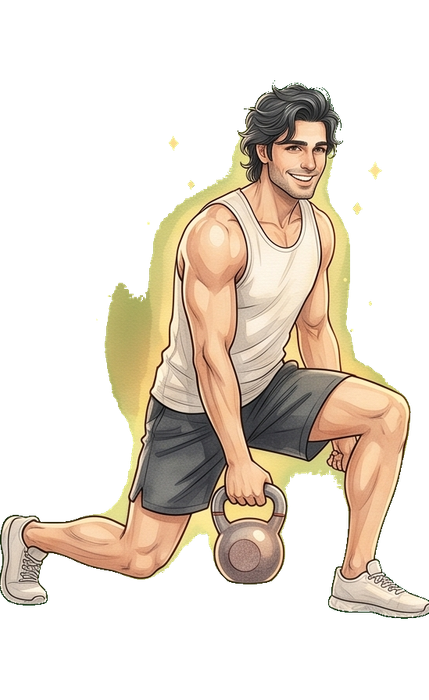
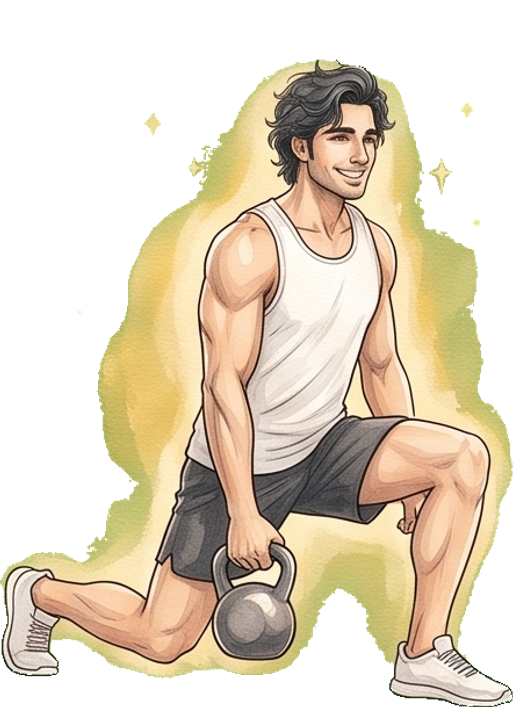
Give the story-share and referral screens a way in
Both earning routes were unreachable: nothing in the app linked to
/referrals, and /share was only linked from inside /referrals. Adds a
'ways to earn' pair of cards to the home screen pointing at each.

Also reslices idan from his second sheet, which came back a clean
separated 4x4 and yields the five poses he was missing.

diff --git a/app/(member)/home/page.tsx b/app/(member)/home/page.tsx
@@ -1,7 +1,7 @@
 import { createServiceClient } from '@/lib/supabase'
 import { createSupabaseServerClient } from '@/lib/supabase-server'
 import Link from 'next/link'
-import { ArrowLeft2, Star1, Flash, CalendarTick } from 'iconsax-reactjs'
+import { ArrowLeft2, Star1, Flash, CalendarTick, Instagram, Profile2User } from 'iconsax-reactjs'
 
 type Member = {
   name: string
@@ -33,6 +33,13 @@ const DEMO: Member = { name: 'מאיה לוי', total_coins: 47, lifetime_coins:
 const CHALLENGES = [
   { Icon: Flash, title: 'רצף שיעורים', current: 7, goal: 10, reward: '+10 UC', note: 'עוד 3 ברצף' },
   { Icon: CalendarTick, title: 'חודש מלא', current: 8, goal: 12, reward: '+30 UC', note: 'עוד 4 החודש' },
+]
+
+// The two earning routes that have no other way in — /share was only reachable
+// from /referrals, and nothing linked to /referrals at all.
+const EARN = [
+  { Icon: Instagram, title: 'שיתוף סטורי', href: '/share', reward: '+7 UC', note: 'תייגו אותנו בסטורי ושלחו צילום מסך' },
+  { Icon: Profile2User, title: 'חבר מביא חבר', href: '/referrals', reward: '+50 UC', note: 'שתפו את הקוד האישי שלכם' },
 ]
 
 const ACTIVITY = [
@@ -211,6 +218,36 @@ export default async function HomePage() {
               <ArrowLeft2 size={15} variant="Linear" color="#DBB89C" />
             </div>
           </Link>
+        </div>
+      </div>
+
+      {/* ── Ways to earn ─────────────────────────── */}
+      <div style={{ padding: '20px 16px 0' }}>
+        <p style={{ fontSize: 11, letterSpacing: '0.18em', textTransform: 'uppercase', color: '#9C8B7F', marginBottom: 10, fontFamily: 'var(--font-assistant,sans-serif)' }}>איך צוברים עוד</p>
+        <div style={{ display: 'grid', gridTemplateColumns: '1fr 1fr', gap: 10 }}>
+          {EARN.map(e => (
+            <Link key={e.href} href={e.href} className="clay-sm" style={{
+              padding: '14px 14px 12px', display: 'block', textDecoration: 'none',
+            }}>
+              <div style={{ display: 'flex', justifyContent: 'space-between', alignItems: 'center', marginBottom: 8 }}>
+                <div style={{
+                  width: 38, height: 38, borderRadius: '50%', flexShrink: 0,
+                  background: 'linear-gradient(150deg,#FBF1E8,#DBB89C)',
+                  display: 'flex', alignItems: 'center', justifyContent: 'center',
+                  boxShadow: '0 3px 10px rgba(192,144,111,0.25)',
+                }}>
+                  <e.Icon size={20} variant="Bulk" color="#96613F" />
+                </div>
+                <span style={{
+                  fontSize: 11, fontWeight: 700, color: '#96613F',
+                  background: '#FBF1E8', borderRadius: 999, padding: '2px 8px',
+                  fontFamily: 'var(--font-assistant,sans-serif)',
+                }}>{e.reward}</span>
+              </div>
+              <p style={{ fontFamily: 'var(--font-assistant,sans-serif)', fontSize: 13, fontWeight: 700, color: '#3B2E27', marginBottom: 3 }}>{e.title}</p>
+              <p style={{ fontSize: 11, color: '#9C8B7F', fontFamily: 'var(--font-assistant,sans-serif)', lineHeight: 1.35 }}>{e.note}</p>
+            </Link>
+          ))}
         </div>
       </div>
 
